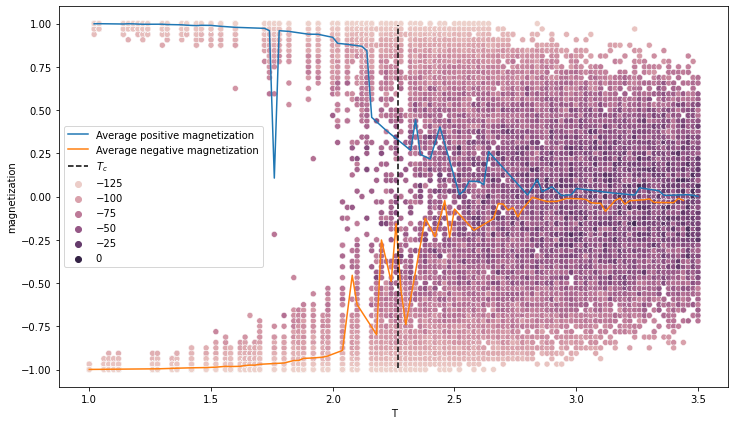
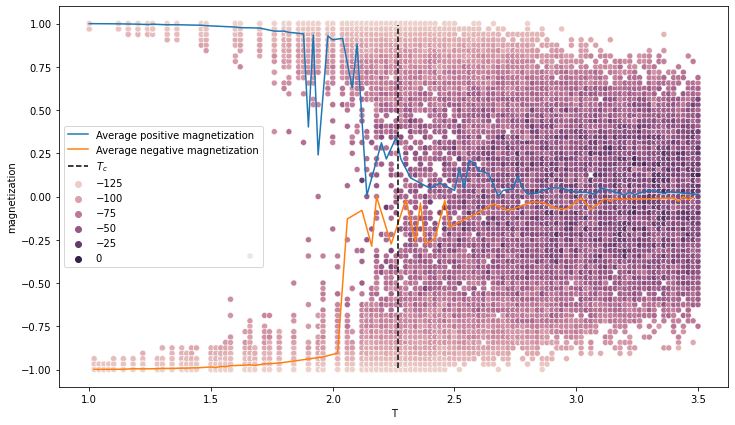
add background to plots

Changed region(s): [[0.1197, 0.0306, 0.9578, 0.8871]]

diff --git a/README.md b/README.md
@@ -7,26 +7,24 @@ Finally, as an appendix, the original data is analyzed with the _t-stochastic ne
 
 > :grey_exclamation: The project is subdivided into notebook written to be run on [google colab](https://colab.research.google.com/). A copy is provided in this repository but they may not run in your local environment. It is possible to access the original notebooks using the link provided. 
 
-> :grey_exclamation: Some images may not display properly if GitHub's dark mode is active. If that's the case please change mode or open the plots one by one.
-
 ## Notebooks
-The following section presents a summary of the results obtained. A detailed discussion is available inside the notebooks themselves. 
+The following sections present a summary of the results obtained. A detailed discussion is available inside the notebooks themselves. 
 
-### 01 Monte Carlo simulation
+## 01 Monte Carlo simulation
 [Google colab link](https://colab.research.google.com/drive/1de9nkvQpTHr8AZuaSgxCjmR14VqJ5I4F?usp=sharing)
 
 The first notebook is centered around the Monte Carlo code `MonteCarloSampling.c` written to generate the configurations.
-In particular, in the notebook the behavior of the magnetization and the autocorrelation will be analyzed. Both tests will lead to positive results with a correlation length of $5000$ time steps.
+In particular, in the notebook the behavior of the magnetization and the autocorrelation will be analyzed. Both tests will lead to positive results with a correlation length of $\simeq1000$ time steps.
 
-##### Magnetization
-![](img/01_magnetization.png)
+### Magnetization
+<img src="img/01_magnetization.png" style="background-color:white;"/>
 
-##### Autocorrelation
-![](img/01_autocorrelation.png)
+### Autocorrelation
+<img src="img/01_autocorrelation.png" style="background-color:white;"/>
 
 </br>
 
-### 02 The Toy model
+## 02 The Toy model
 [Google colab link](https://colab.research.google.com/drive/1VhzjsGJBBggnKgkuA9-o77eyjR3w4s2m?usp=sharing)
 
 The second notebook focuses on the Toy Model presented in the article and examines the corresponding FCNN. The analytical toy model correctly classifies the temperature up to a parameter $\epsilon$ that was found by trial and error (an optimization procedure would have required more time without providing any real value). Then a FCNN with the same structure as the toy model is designed:
@@ -36,29 +34,29 @@ The second notebook focuses on the Toy Model presented in the article and examin
 The activation function was switched from Heaviside to Sigmoid as suggested in the article to avoid the pathological behavior of the Heaviside's gradient.  
 The network's performances have a high dependence on the stochastic component of the training. If the training goes well the test loss is smaller than 0.1 percent, otherwise, it oscillates between 0.2 and 0.4 (this problem will be solved in the third notebook). When the training goes well both the hidden layer and the output layer provide similar results to the toy model and the critical temperature is correctly identified within a small error.
 
-##### Output of the analytical Toy model
+#### Output of the analytical Toy model
 ![](img/02_Analytical_Toy_model.png)
 
-##### Training of the FCNN Toy Model
+#### Training of the FCNN Toy Model
 ![](img/02_FCNN_training_loss.png)
 
-##### Output of the FCNN Toy model
+#### Output of the FCNN Toy model
 ![](img/02_FCNN_Toy_model_magnetization.png)
 ![](img/02_FCNN_Toy_model_temperature.png)
 
 </br>
 
-### 03 The Network in detail
+## 03 The Network in detail
 [Google colab link](https://colab.research.google.com/drive/1alngDJg5uTnB-GwbBxkoK753OHZeg6Uw?usp=sharing)
 
 The third notebook will be more theory-oriented. First, the Toy model FCNN will be upgraded with a hidden layer of 100 neurons, then the training procedure will be discussed in detail. Following that, the results of [Juan Carrasquilla and Roger G. Melko](https://arxiv.org/abs/1605.01735) on non-standard Ising hamiltonian will be presented.
 
-#### Training of the improved network
+### Training of the improved network
 <a href="https://ibb.co/TmwDDKW"><img src="https://i.ibb.co/xJ2KKmF/03-test.png" alt="03-test" border="0"></a>
 
 </br>
 
-### 04 t-SNE
+## 04 t-SNE
 [Google colab link](https://colab.research.google.com/drive/1hUy1Fy7iUTkWHX-S79e-WppUdJBHMw9E?usp=sharing)
 
 The fourth notebook will try to implement the content of _Appendix B: Visualizing the action of a neural network on the Ising ferromagnet_ using scikit-learn's implementation of t-SNE.
